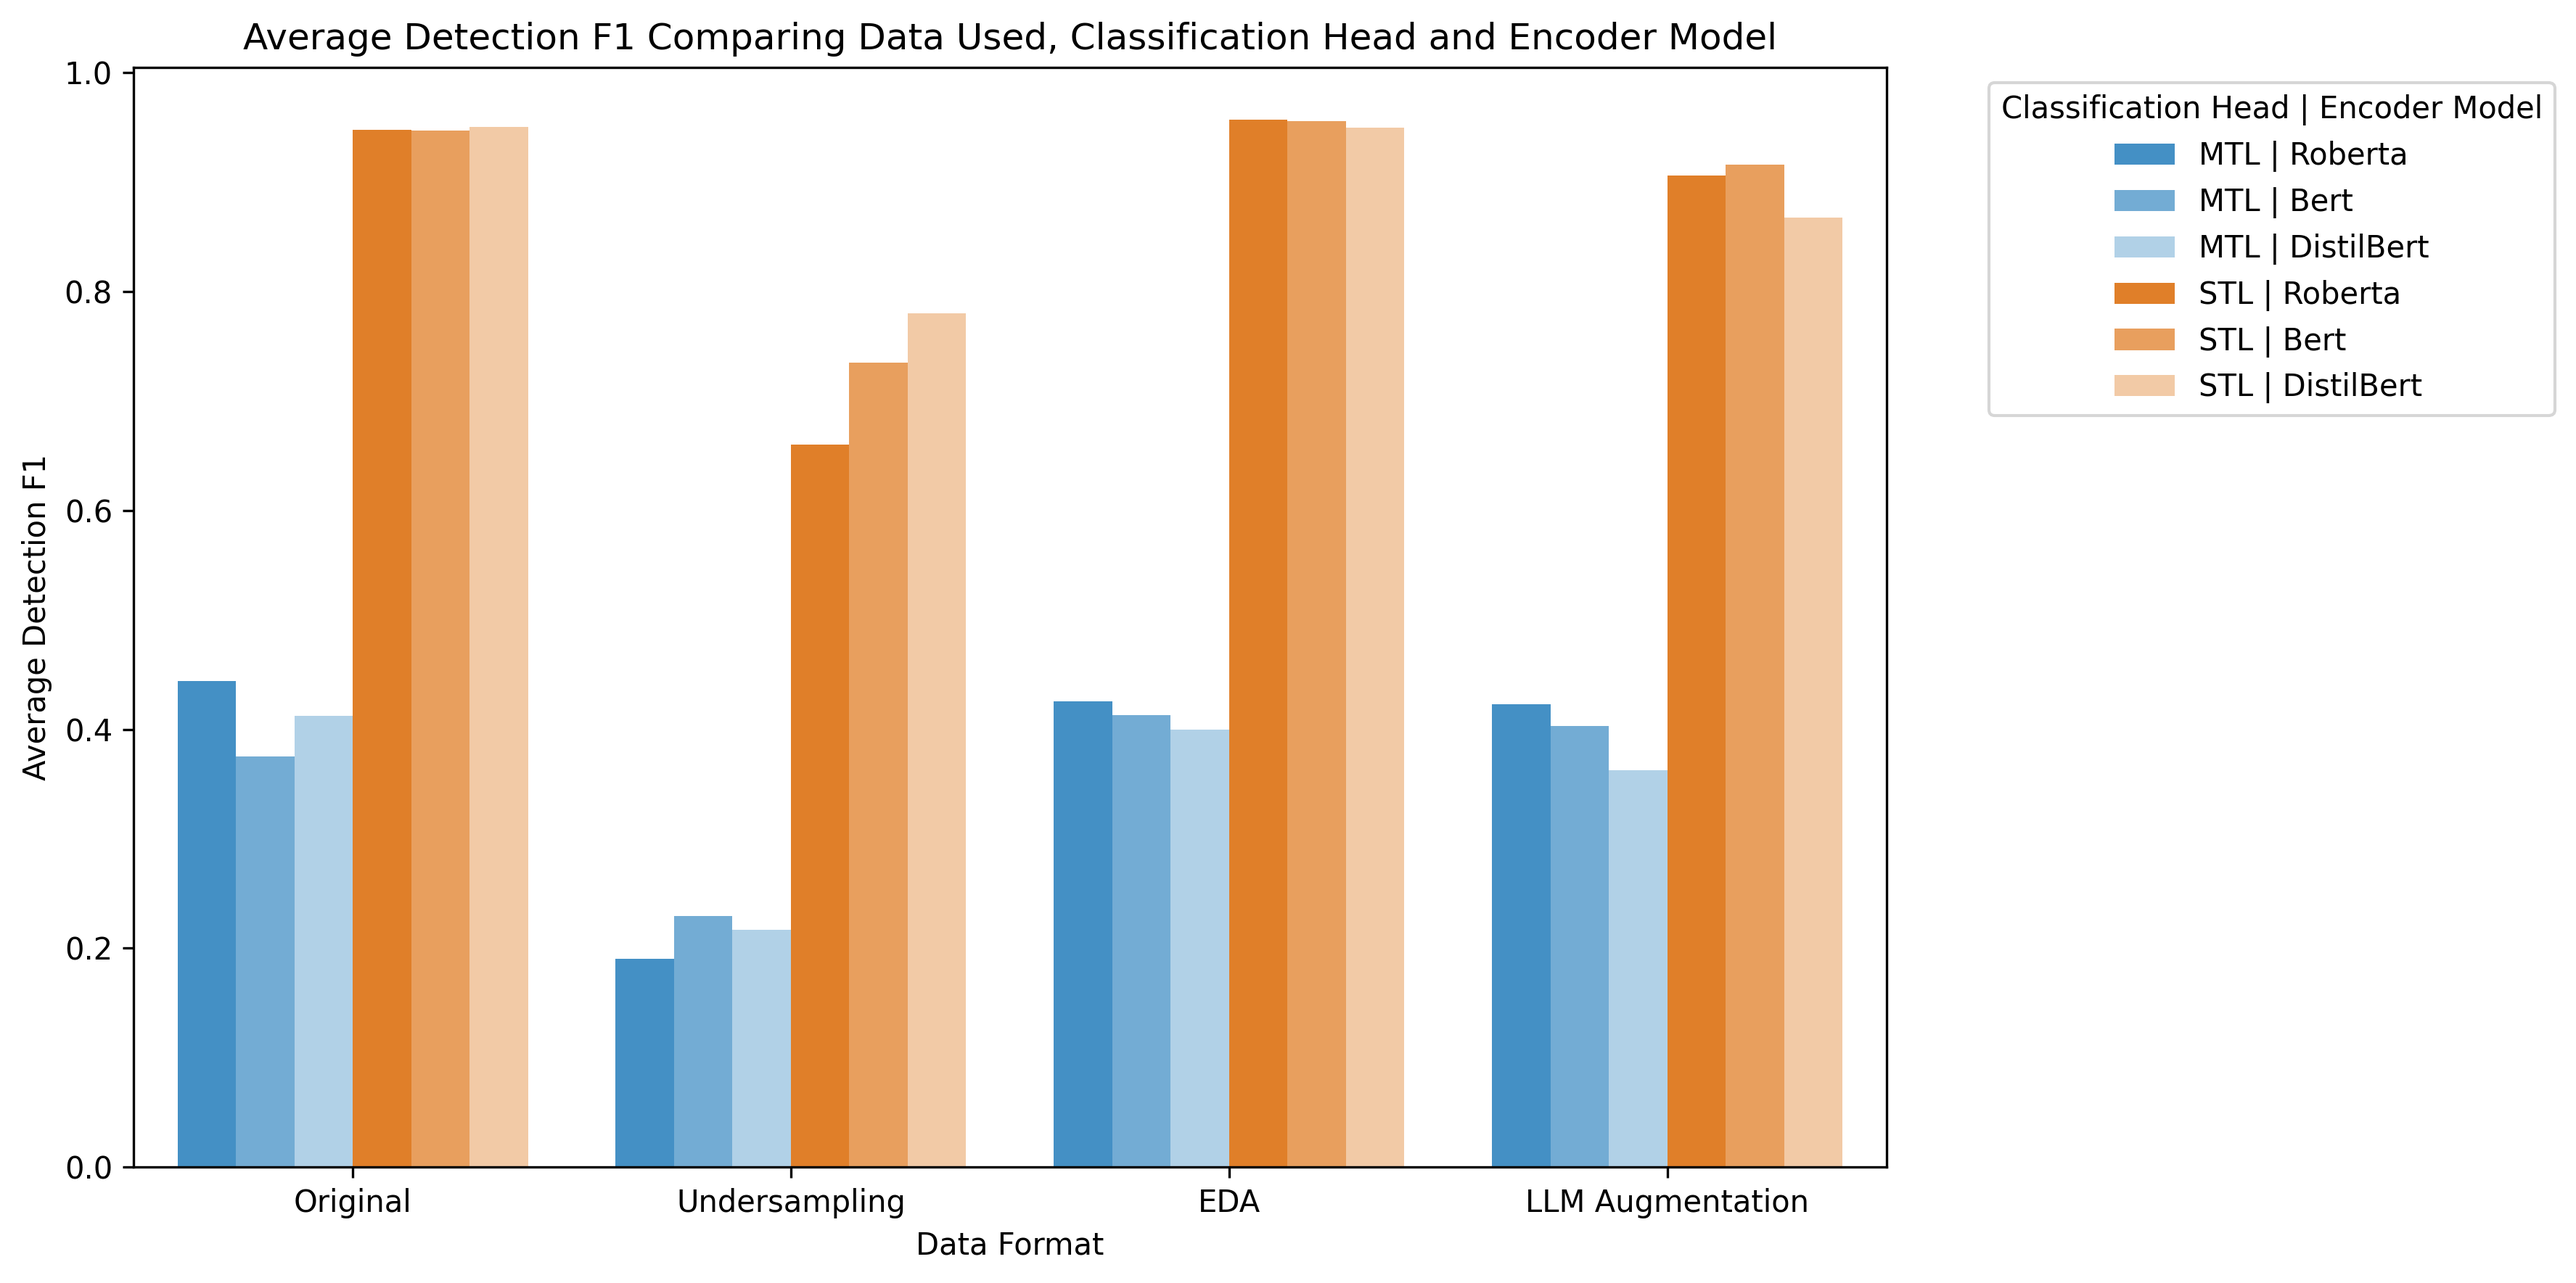
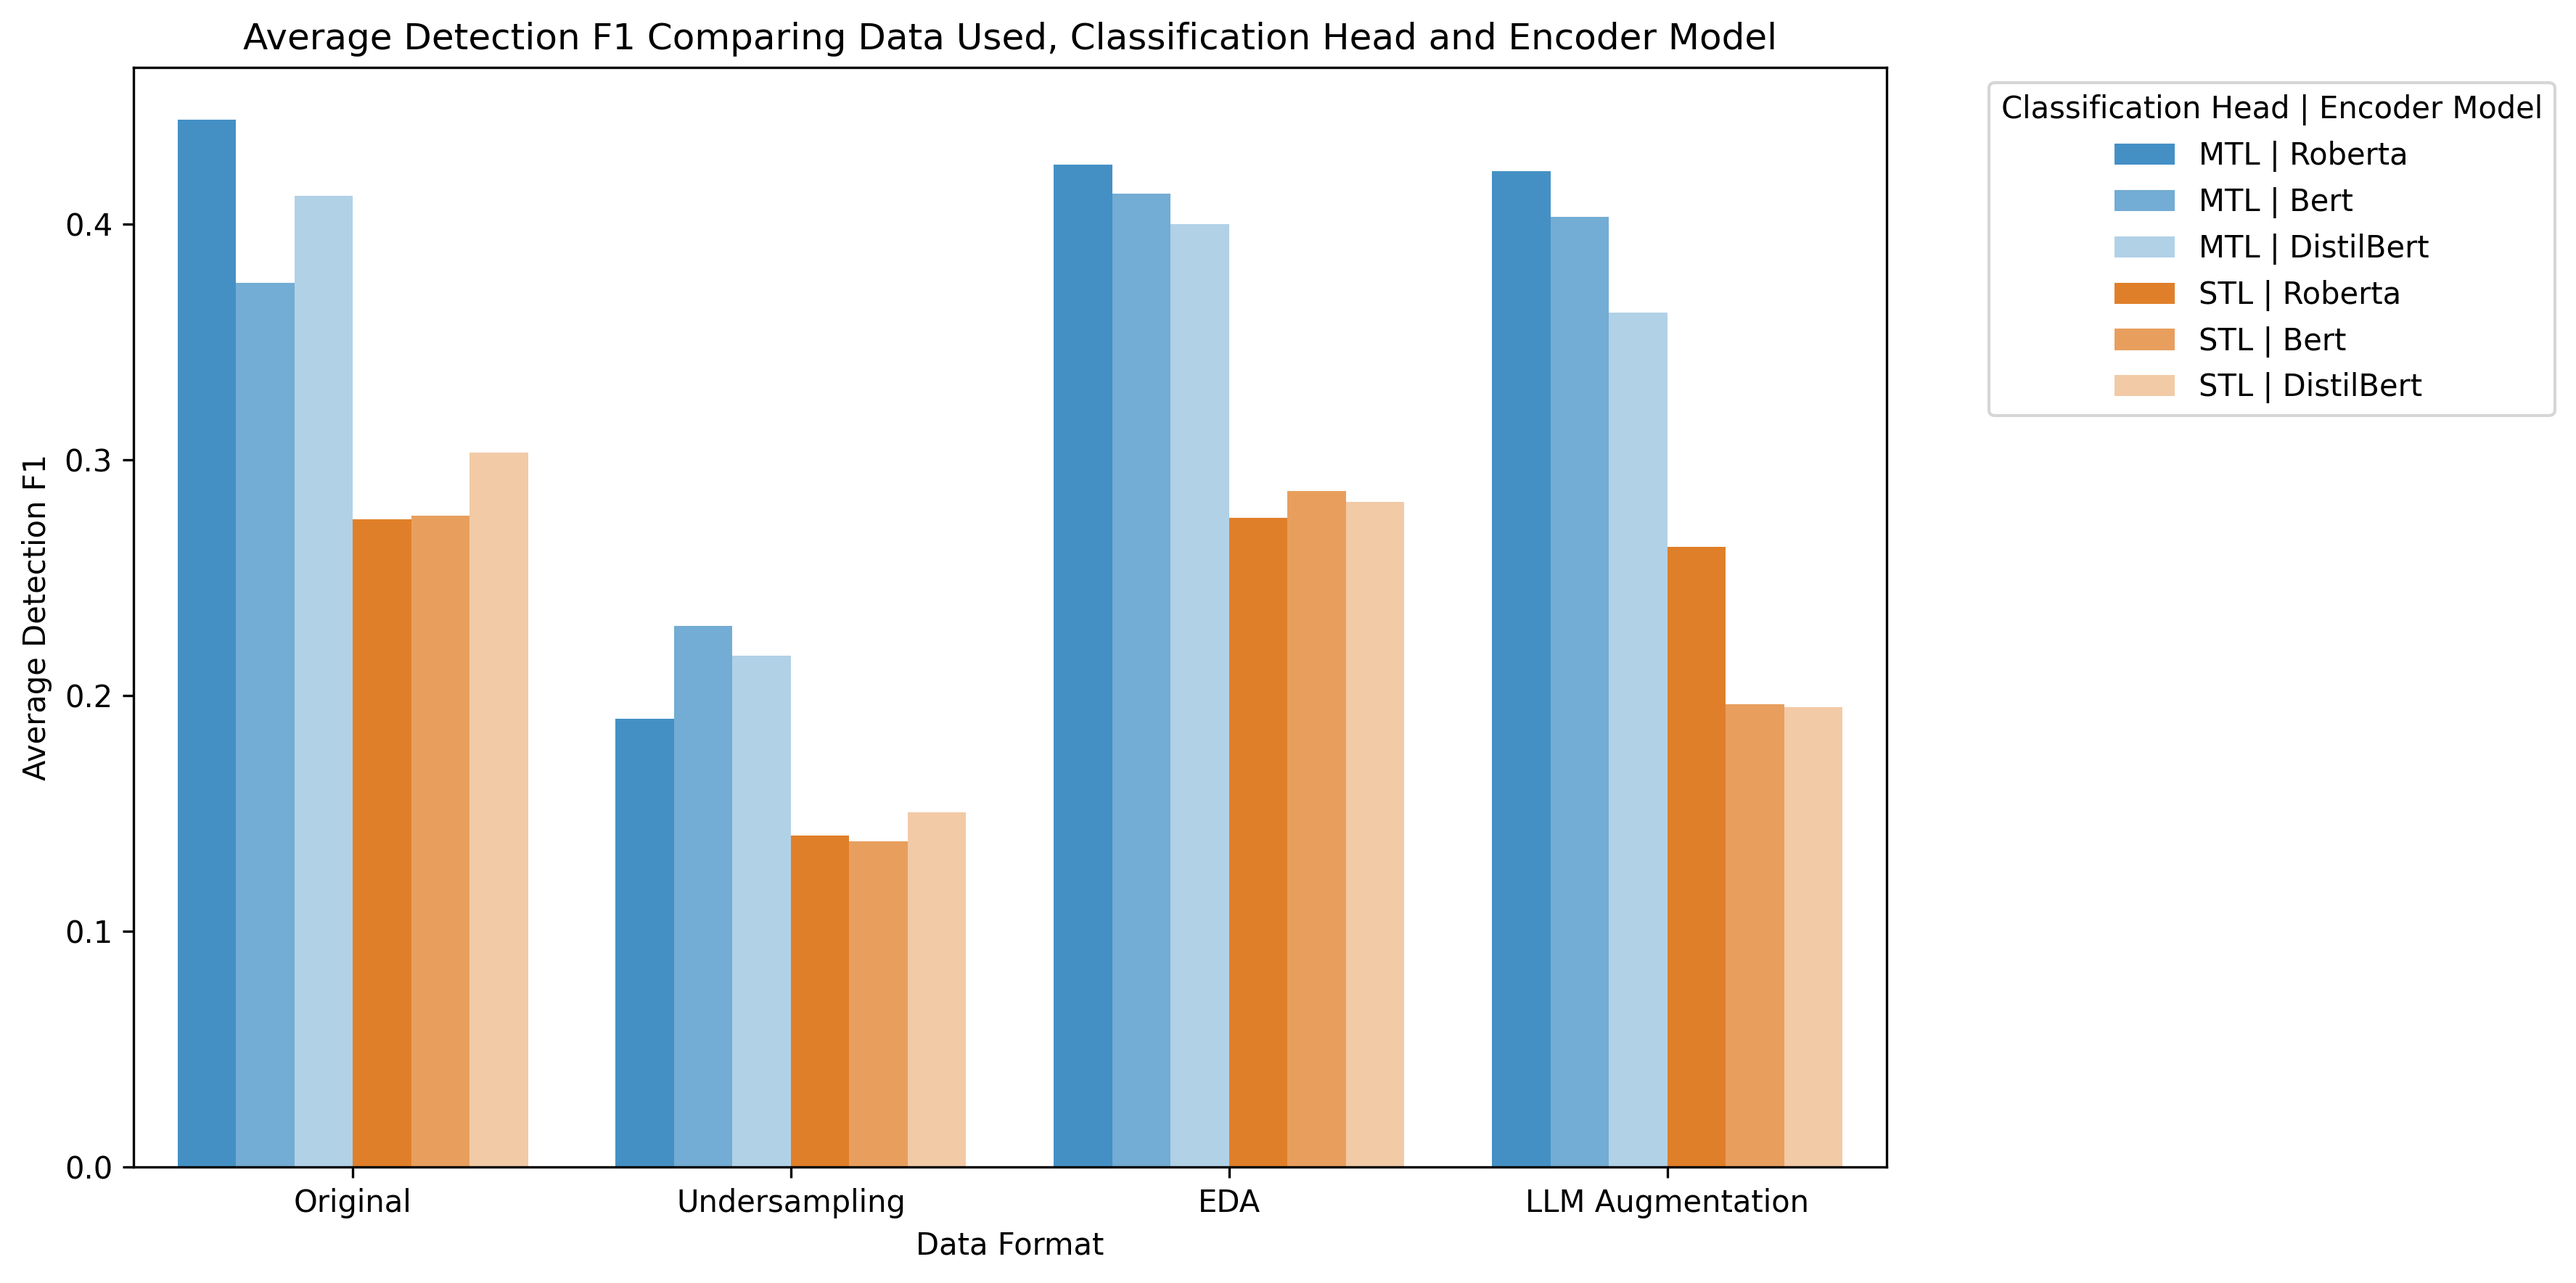
accc fixed evaluator

diff --git a/Final Results/plotting.py b/Final Results/plotting.py
@@ -68,7 +68,13 @@ def get_metric_txt(dir="metrics"):
 
             file_dir = os.path.join(dir, file_name)
             text = open(file_dir).read()
-            f1, digits = get_f1_from_txt(text, classification_model_name)
+            if classification_model_name != "STL":
+                f1, digits = get_f1_from_txt(text, classification_model_name)
+            else:
+                csv_file_name = file_name[:-13] + "metrics.csv"
+                file_dir = os.path.join(dir, csv_file_name)
+                df = pd.read_csv(file_dir)
+                f1 = df.loc[0, "Reversed F1"]
 
             metrics_list.append((bert_model_name, classification_model_name, aug_name, f1))
 
@@ -77,7 +83,7 @@ def get_metric_txt(dir="metrics"):
 def get_metric_csvs(dir="metrics"):
     class_and_detection_f1_name, class_f1_name = get_col_names(dir)
 
-    metrics_list = [] # Tuple of bert model name, classification model name, augmentation name, class f1, class & detection F1
+    metrics_list = [] # Tuple of bert model name, classification model name, augmentation name, class & detection F1, class f1
     file_list = os.listdir(dir)
     for file_name in file_list:
         if ".csv" in file_name:
@@ -89,6 +95,8 @@ def get_metric_csvs(dir="metrics"):
             aug_name = split_filename[3]
             # Clean names for plotting later
             bert_model_name, classification_model_name, aug_name = clean_names(bert_model_name, classification_model_name, aug_name)
+            
+            
             file_dir = os.path.join(dir, file_name)
             df = pd.read_csv(file_dir)
             idx_max_class_and_detection_f1 = df[class_and_detection_f1_name].idxmax()
@@ -177,7 +185,7 @@ def main():
     args = parser.parse_args()
 
     csv_metrics_list = get_metric_csvs(dir=args.data_dir)
-    df_csv = pd.DataFrame(csv_metrics_list, columns=['bert_model', 'classifier', 'augmentation', 'class_f1', 'class_and_detection_f1'])
+    df_csv = pd.DataFrame(csv_metrics_list, columns=['bert_model', 'classifier', 'augmentation', 'class_and_detection_f1', 'class_f1'])
     plot_metrics(df_csv, filename = args.data_dir, metric_to_plot='class_f1')
 
     text_metrics_list = get_metric_txt(dir=args.data_dir)

diff --git a/Evaluation/HierarchicalEvaluator.py b/Evaluation/HierarchicalEvaluator.py
@@ -34,6 +34,20 @@ class HierarchicalEvaluator:
     
     def get_avg_class_and_detection_f1(self):
         return self.avg_class_and_detection_f1
+    
+    def compute_reversed_f1_for_class_6(self):
+        i = 6  # index for class 6 (no fallacy)
+
+        # Treat all other classes (0–5) as positive
+        rev_tp = np.sum(self.class_tp[:i])  # all true positives for fallacy classes
+        rev_fp = np.sum(self.class_fn[:i])  # false negatives for fallacy classes become FP
+        rev_fn = np.sum(self.class_fp[:i])  # false positives for fallacy classes become FN
+
+        rev_precision = rev_tp / (rev_tp + rev_fp) if (rev_tp + rev_fp) else 0
+        rev_recall = rev_tp / (rev_tp + rev_fn) if (rev_tp + rev_fn) else 0
+        rev_f1 = (2 * rev_precision * rev_recall) / (rev_precision + rev_recall) if (rev_precision + rev_recall) else 0
+
+        return rev_precision, rev_recall, rev_f1
 
 
     def add(self, predictions, ground_truth):
@@ -86,14 +100,6 @@ class HierarchicalEvaluator:
                     self.class_fp[class_pred] += 1
                     self.class_fn[class_gt] += 1
             else: # detection or category is wrong
-                self.class_fp[class_pred] += 1
-                self.class_fn[class_gt] += 1
-        elif self.head_type == "STL":
-            self.class_total[class_gt] += 1
-            if class_pred == class_gt:
-                self.class_correct[class_gt] += 1
-                self.class_tp[class_gt] += 1
-            else:
                 self.class_fp[class_pred] += 1
                 self.class_fn[class_gt] += 1
 

diff --git a/Model/test_eval.py b/Model/test_eval.py
@@ -101,6 +101,7 @@ def eval(test_loader, bert_model_name, tokenizer, head_type="MTL 6", htc=False, 
     print(evaluator)
     avg_class_f1 = evaluator.get_avg_class_f1()
     avg_class_and_detection_f1 = evaluator.get_avg_class_and_detection_f1()
+    rev_precision, rev_recall, rev_f1 = evaluator.compute_reversed_f1_for_class_6()
 
     # Save metrics to csv
     save_dir = os.path.abspath(os.path.join(os.path.dirname(__file__), '../..', 'Saved_Test_Metrics'))
@@ -108,8 +109,8 @@ def eval(test_loader, bert_model_name, tokenizer, head_type="MTL 6", htc=False, 
     csv_save_path = os.path.join(save_dir, model_file_name + '_test_metrics.csv')
     with open(csv_save_path, 'w', newline='') as file:
         writer = csv.writer(file)
-        writer.writerow(['Avg Test Class F1', 'Avg Test Class & Detection F1'])
-        writer.writerow([avg_class_f1, avg_class_and_detection_f1])
+        writer.writerow(['Avg Test Class F1', 'Avg Test Class & Detection F1', 'Reversed Precision', 'Reversed Recall', 'Reversed F1'])
+        writer.writerow([avg_class_f1, avg_class_and_detection_f1, rev_precision, rev_recall, rev_f1])
 
     # Save best evalutor output to txt
     txt_save_path = os.path.join(save_dir, model_file_name + '_test_evaluator.txt')
